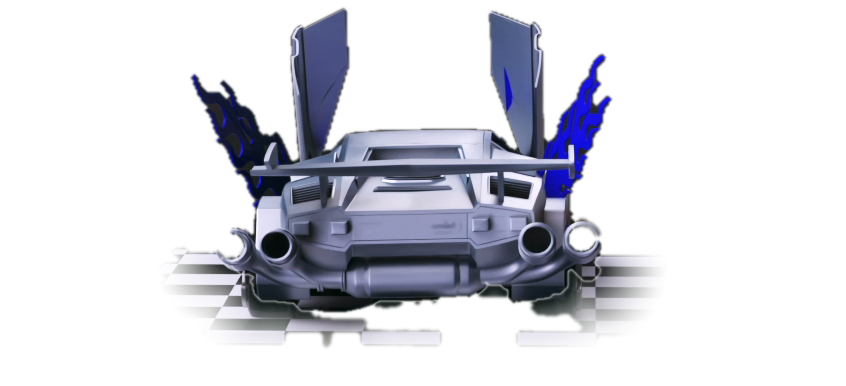
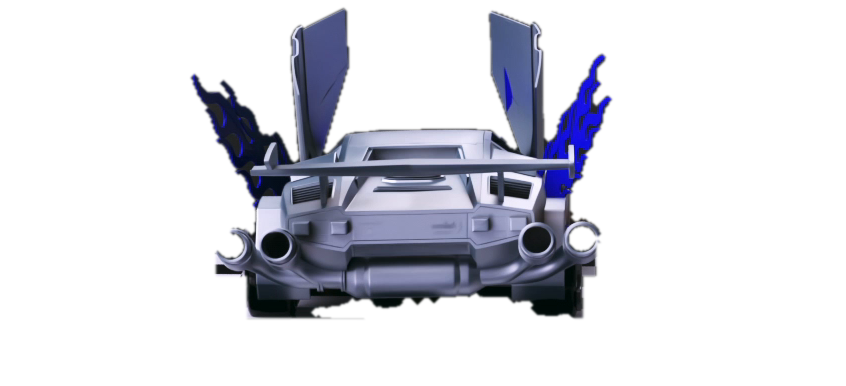
CHAPEL: parked car cut clean from its stand, wheels on the floor, soft shadow

diff --git a/YELLOW BOX/chapel/index.html b/YELLOW BOX/chapel/index.html
@@ -416,8 +416,13 @@ function build(){
 
   /* the car from the video, parked in the middle of the nave and still: its front (first frame) faces the door,
      its rear (frame 274) faces the altar; shown exactly as filmed, wheels on the floor, at the video's own scale */
-  {const L2=new THREE.TextureLoader(),w=5.38,h=2.45,cy=-.5+h/2;
-    for(const[file,ry,dz]of[['img/car-front.png',0,.01],['img/car-back.png',PI,-.01]]){
+  {const L2=new THREE.TextureLoader(),w=5.38,h=2.45,ppm=846/w;
+    // a soft shadow on the stone where it stands
+    {const c=mk(128,256),x=c.getContext('2d'),g=x.createRadialGradient(64,128,0,64,128,64);g.addColorStop(0,'rgba(0,0,0,.55)');g.addColorStop(.7,'rgba(0,0,0,.25)');g.addColorStop(1,'rgba(0,0,0,0)');
+      x.setTransform(1,0,0,2,0,0);x.fillStyle=g;x.fillRect(0,0,128,128);
+      const sh=new THREE.Mesh(new THREE.PlaneGeometry(2.6,5.2),new THREE.MeshBasicMaterial({map:tex(c),transparent:true,depthWrite:false}));sh.rotation.x=-PI/2;sh.position.set(0,.006,-L/2);scene.add(sh);}
+    // ground row of each picture: where the wheels meet the floor
+    for(const[file,ry,dz,ground]of[['img/car-front.png',0,.01,322],['img/car-back.png',PI,-.01,318]]){const cy=h/2-(386-ground)/ppm;
       const t=L2.load(file);t.encoding=THREE.sRGBEncoding;
       const m=new THREE.Mesh(new THREE.PlaneGeometry(w,h),new THREE.MeshBasicMaterial({map:t,transparent:true,depthWrite:false,toneMapped:false}));
       m.rotation.y=ry;m.position.set(0,cy,-L/2+dz);scene.add(m);}}
